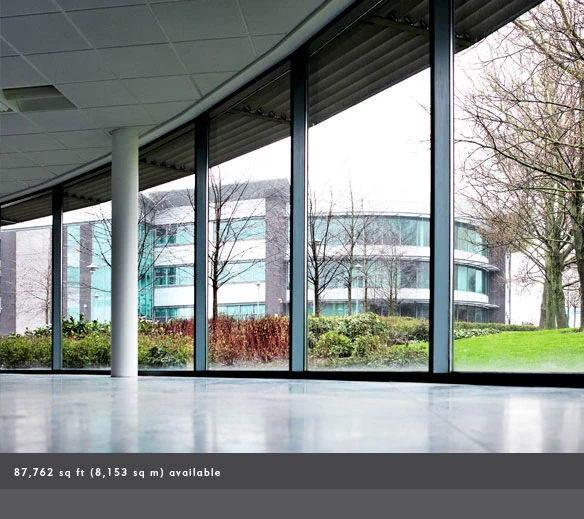
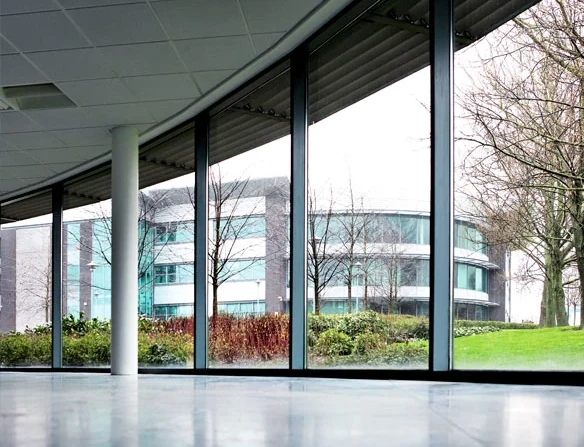
Signed and Sealed - new Eagle Images + Leon

diff --git a/index.html b/index.html
@@ -1454,18 +1454,13 @@
             consistent, safe environment that Birmingham’s families and survivors of violence deserve.</p>
         </div>
         <div class="vision-image">
-          <img src="Eagle1.webp" alt="Eagle Court Visual 1">
+          <img src="Eagle6.webp" alt="Eagle Court Visual 1">
         </div>
       </div>
 
       <div class="vision-row reveal">
-        <div class="vision-image" style="display:flex; flex-direction:column;">
-          <a href="Eagle-brochure-2024-1.pdf" target="_blank" rel="noopener">
-            <img src="EaglePlan.png" alt="Eagle Court Technical Proposal">
-          </a>
-          <small style="text-align: center; color: var(--mid-grey); margin-top: 12px; font-weight: 500;">
-            Click plan to view full 2024 Technical Proposal (PDF)
-          </small>
+        <div class="vision-image">
+          <img src="eagle-court-2.webp" alt="Eagle Court — Healing Ecosystem Visual">
         </div>
         <div class="vision-text">
           <h3>The Vision — Eagle Court as a Healing Ecosystem</h3>
@@ -1494,7 +1489,7 @@
 
       <div class="vision-row reveal">
         <div class="vision-image">
-          <img src="Eagle3.webp" alt="Eagle Court Visual 3">
+          <img src="Eagle4.webp" alt="Eagle Court Visual 4">
         </div>
         <div class="vision-text">
           <h3>The Appeal — Your Voice is Our Key</h3>
@@ -1599,14 +1594,14 @@
 
       <div class="press-grid">
         <div class="press-card reveal">
-          <video src="Kieran-Wood-BBC3.mp4" controls class="press-thumb"></video>
+          html <a href="https://solihullobserver.co.uk/sport/interview-powerlifter-newman-lands-british-championship-and-now-he-has-eyes-on-world-glory/" target="_blank" rel="noopener" style="display: block; cursor: pointer;"> <img src="Leon-Newman.webp" alt="Leon Newman — British Powerlifting Champion" class="press-thumb"> </a>
           <div class="press-content">
-            <div class="video-badge">BBC Feature</div>
-            <h3>Knife Crime in Birmingham — Kieran Wood</h3>
+            <div class="video-badge" style="background: var(--teal); color: white;">Community Partner</div>
+            <h3>Strength & Leadership — Leon Newman</h3>
             <p>
-              A BBC programme documenting the impact of knife crime on Birmingham
-              communities — and the people working to change it. Laura's work with
-              ALIVE Wellness Centre features in this story.
+              British Powerlifting Champion Leon Newman partners with ALIVE to provide elite coaching and mentorship.
+              By bringing championship-level dedication to our youth clubs, Leon helps young people in Birmingham
+              discover their physical and mental strength.
             </p>
           </div>
         </div>
